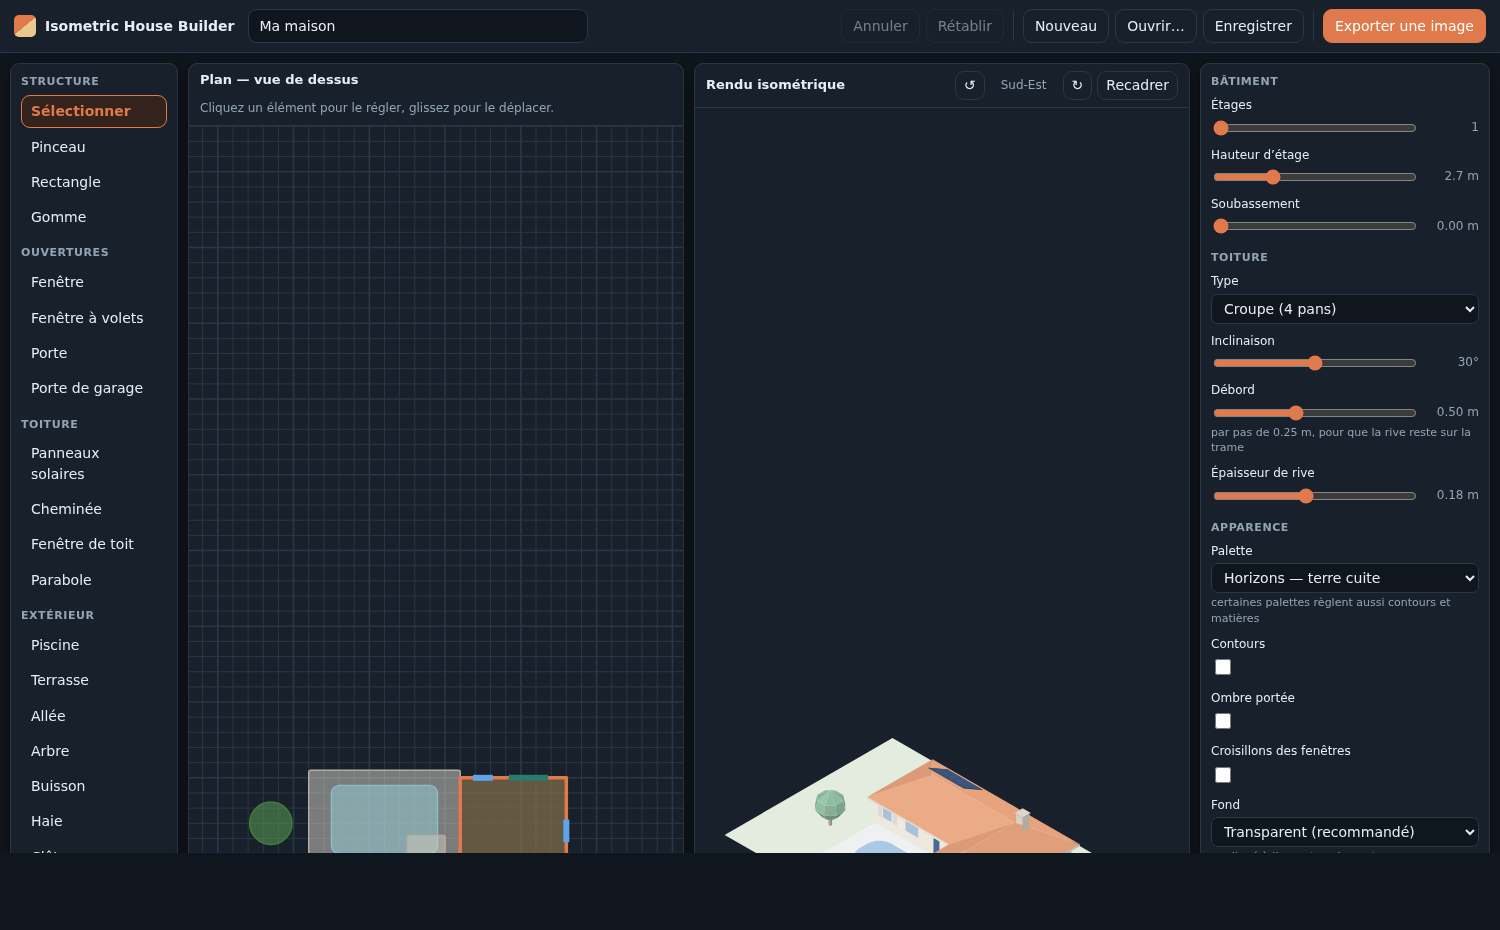
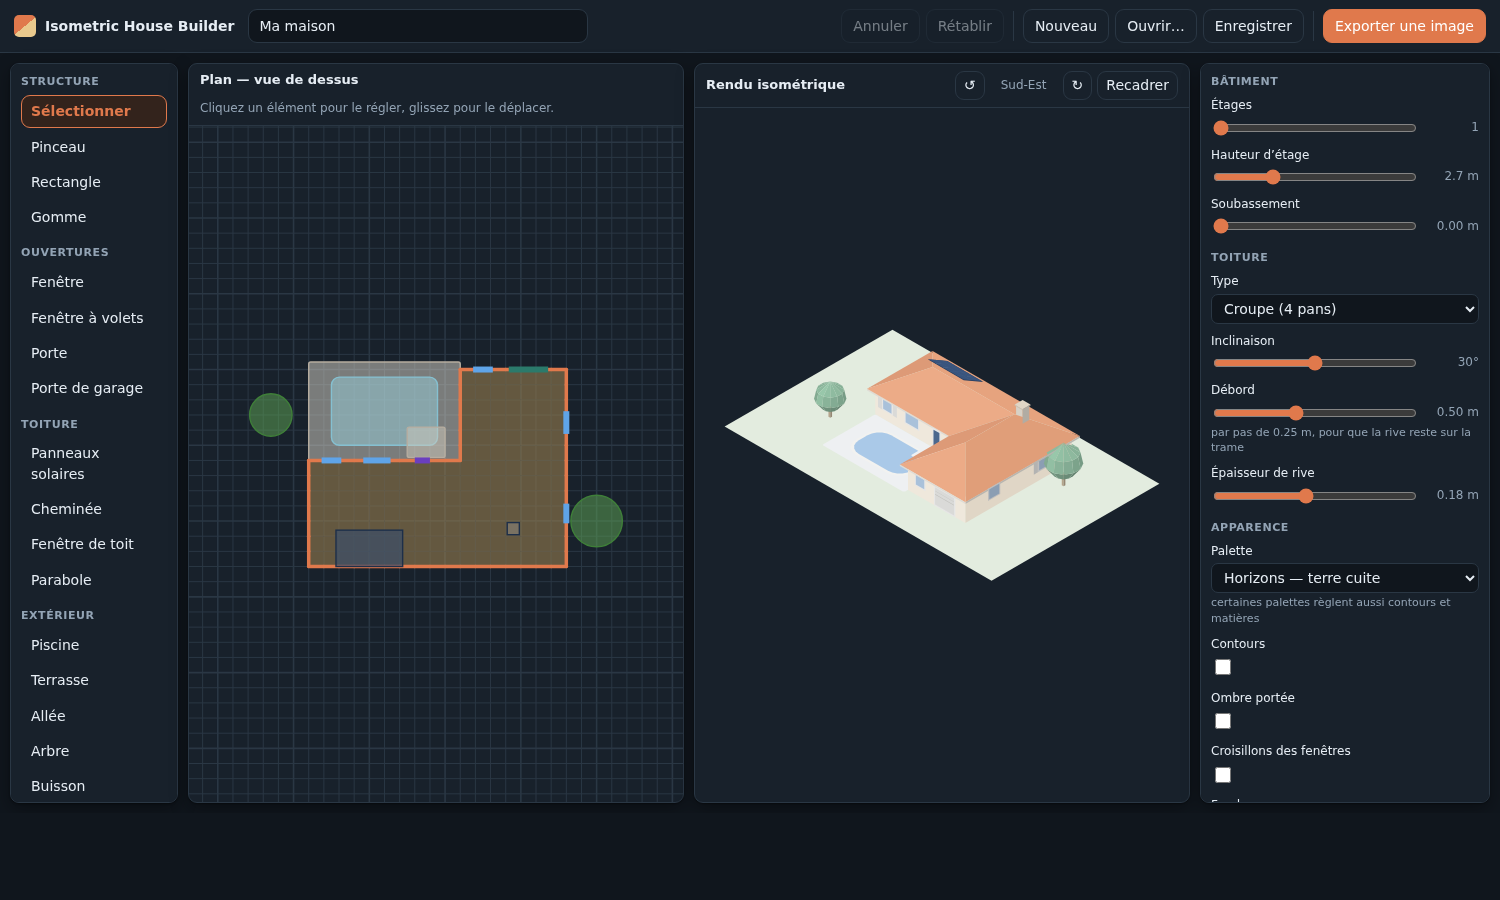
Corrige la mise en page qui repoussait les vues hors de l'écran
Le corps de page avait min-height: 100vh, donc une hauteur minimale et non une
hauteur définie : il grandissait avec son contenu, si bien que le `flex: 1` de
la mise en page n'avait aucune borne supérieure à répartir. La rangée de grille
se résolvait alors sur la colonne la plus haute au lieu de la fenêtre, les
colonnes latérales cessaient de défiler, et les deux dessins se retrouvaient
mis en page dans un cadre deux fois trop haut — donc sous la ligne de flottaison.

Le défaut est apparu en ajoutant le panneau « Couleurs et matières » : c'est
lui qui a rendu l'inspecteur plus haut que l'écran.

- hauteur définie sur body (100dvh) et débordement masqué ; les colonnes
  défilent déjà d'elles-mêmes
- rangée contrainte aussi sur .stage, et min-height: 0 sur .view
- en dessous de 820 px la page redevient défilante, vues empilées

Ajoute deux tests qui chargent index.html dans une iframe et vérifient que rien
ne déborde et que le dessin tombe bien dans son panneau. Aucun des 45 tests de
modules n'avait bronché : le défaut était entièrement dans la feuille de style.
Le banc d'essai doit rester visible, faute de quoi Chrome suspend
requestAnimationFrame dans l'iframe et l'application ne se dessine jamais.

diff --git a/tests/run.js b/tests/run.js
@@ -535,6 +535,54 @@ await checkAsync('le PNG conserve la transparence du fond', async () => {
   return alpha === 0 || `alpha du coin : ${alpha}`;
 });
 
+/**
+ * Load the real page in an iframe.
+ *
+ * The suite above exercises modules; this one exercises the assembled page,
+ * which is where a purely-CSS regression hides. One did: the layout grew past
+ * the viewport and pushed both drawings below the fold, and every module test
+ * still passed.
+ */
+function loadApp(width, height) {
+  return new Promise((resolve, reject) => {
+    const frame = document.createElement('iframe');
+    frame.style.cssText = `width:${width}px;height:${height}px`;
+    frame.src = '../index.html';
+    frame.onload = () => setTimeout(() => resolve(frame), 700);
+    frame.onerror = () => reject(new Error('page non chargée'));
+    document.getElementById('appframe').appendChild(frame);
+  });
+}
+
+await checkAsync('la page tient dans la fenêtre, sans déborder', async () => {
+  const frame = await loadApp(1280, 800);
+  const doc = frame.contentDocument;
+  const view = doc.documentElement.clientHeight;
+  const scroll = doc.body.scrollHeight;
+  if (scroll > view + 2) return `contenu ${scroll}px pour une fenêtre de ${view}px`;
+  // Both drawing panels must fit inside the viewport, not merely exist.
+  for (const id of ['plan', 'iso']) {
+    const r = doc.getElementById(id).getBoundingClientRect();
+    if (r.height > view) return `le panneau « ${id} » fait ${Math.round(r.height)}px`;
+    if (r.height < 120) return `le panneau « ${id} » est écrasé (${Math.round(r.height)}px)`;
+  }
+  return true;
+});
+
+await checkAsync('la page s’amorce avec ses outils et un rendu visible', async () => {
+  const frame = await loadApp(1280, 800);
+  const doc = frame.contentDocument;
+  if (doc.querySelectorAll('.tool').length < 10) return 'palette d’outils incomplète';
+  if (!doc.querySelector('#inspector .panel')) return 'inspecteur vide';
+  const svg = doc.querySelector('#iso svg');
+  if (!svg || svg.querySelectorAll('path').length < 20) return 'rendu isométrique vide';
+  // The drawing must land inside the panel, not somewhere off-screen below it.
+  const panel = doc.getElementById('iso').getBoundingClientRect();
+  const box = svg.getBBox();
+  return (box.y + box.height <= panel.height + 2 && box.height > 40)
+    || `dessin en dehors du panneau : y=${Math.round(box.y)} h=${Math.round(box.height)} pour ${Math.round(panel.height)}px`;
+});
+
 /* ---------------- summary ---------------- */
 
 const summary = document.getElementById('summary');

diff --git a/styles.css b/styles.css
@@ -32,7 +32,15 @@
 
 body {
   margin: 0;
-  min-height: 100vh;
+  /* A definite height, not a minimum.
+     With min-height the body grows to fit its content, so `flex: 1` on the
+     layout has no upper bound to distribute and the grid row resolves against
+     the tallest column instead of the viewport. The side columns then stop
+     scrolling and stretch the whole page — which is what pushed the drawings
+     far below the fold once the inspector gained a panel. */
+  height: 100vh;
+  height: 100dvh;
+  overflow: hidden;
   display: flex;
   flex-direction: column;
   background: var(--bg);
@@ -119,6 +127,11 @@ button:disabled { opacity: .45; cursor: default; }
 .stage {
   display: grid;
   grid-template-columns: minmax(0, 1fr) minmax(0, 1fr);
+  /* Same rule as .layout, and for the same reason: an auto row sizes itself to
+     its content, and a view whose height is 100% of an auto row has nothing to
+     resolve against. The panel then grows and the drawing is laid out inside a
+     box far taller than what is on screen. */
+  grid-template-rows: minmax(0, 1fr);
   gap: 10px;
   min-height: 0;
 }
@@ -126,6 +139,7 @@ button:disabled { opacity: .45; cursor: default; }
 .view {
   display: flex;
   flex-direction: column;
+  min-height: 0;
   background: var(--panel);
   border: 1px solid var(--line);
   border-radius: var(--radius);
@@ -316,7 +330,10 @@ button.subtle { width: 100%; margin-top: 10px; font-size: 12px; }
   .inspector { grid-column: 1 / -1; max-height: 40vh; }
 }
 @media (max-width: 820px) {
-  .layout { grid-template-columns: 1fr; grid-template-rows: auto minmax(0, 1fr) auto; }
+  /* Stacked on a phone: let the page scroll normally again. */
+  body { height: auto; min-height: 100vh; overflow: auto; }
+  .layout { grid-template-columns: 1fr; grid-template-rows: auto auto auto; }
+  .view-body { height: 60vh; }
   .tools { display: grid; grid-template-columns: repeat(auto-fill, minmax(120px, 1fr)); gap: 10px; }
   .tool-group { margin-bottom: 0; }
   .stage { grid-template-columns: 1fr; }

diff --git a/tests/index.html b/tests/index.html
@@ -9,13 +9,22 @@ li{list-style:none;padding:3px 0;font-family:ui-monospace,monospace;font-size:12
 .ko{color:#b3392b}
 #summary{margin-top:14px;padding:9px 12px;border-radius:8px;font-weight:600}
 .green{background:#dff3e4;color:#177245} .red{background:#fbe3e0;color:#b3392b}
-#stage{position:fixed;left:-4000px;top:0;width:900px;height:600px}
+/* On-screen but clipped to a pixel: parked off-screen, Chrome suspends
+   requestAnimationFrame inside the iframe and the app never draws itself,
+   which reads as a failure that has nothing to do with the code. */
+#stage{position:fixed;right:0;bottom:0;width:1px;height:1px;overflow:hidden;opacity:.01;pointer-events:none;z-index:-1}
+/* The iframe tests need a genuinely visible frame: Chrome suspends
+   requestAnimationFrame in an off-screen iframe, so the app never draws and
+   the failure says nothing about the code. */
+#appframe iframe{border:1px solid #d8e0e8;border-radius:8px;background:#fff}
 </style></head>
 <body>
 <h1>Tests — Isometric House Builder</h1>
 <p class="lead">Aucune dépendance, aucun build : ouvrez ce fichier depuis un serveur local.</p>
 <ul id="results"></ul>
 <div id="summary">…</div>
+<h2 style="font-size:13px;margin:18px 0 6px">Banc d'essai — l'application, chargée telle quelle</h2>
+<div id="appframe"></div>
 <div id="stage"><div id="plan" style="width:440px;height:600px"></div><div id="iso" style="width:440px;height:600px"></div><div id="inspector"></div></div>
 <script type="module" src="run.js"></script>
 </body></html>
